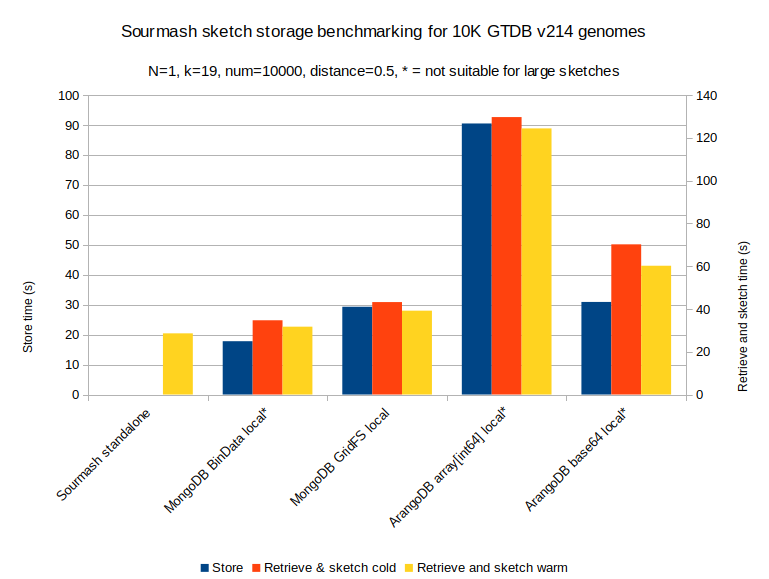
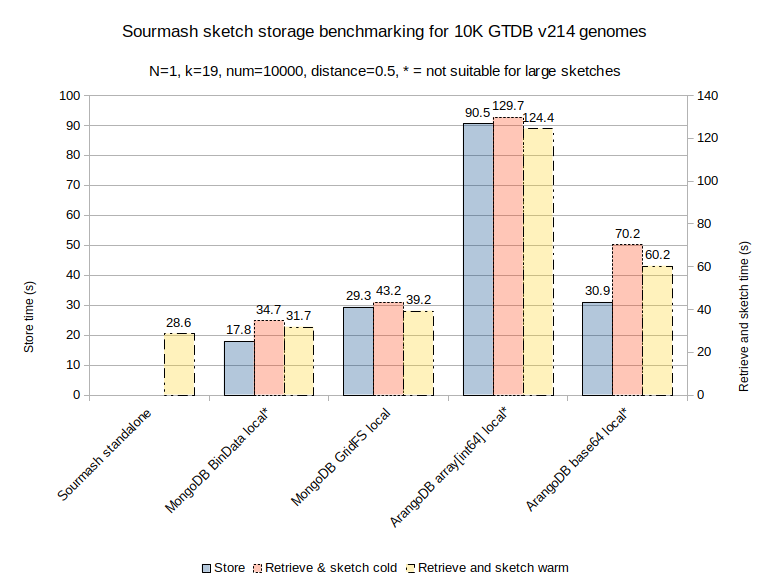
Improve graph for colorblindness
Also typo

diff --git a/design/experiments/benchmark_sourmash_signature_storage.md b/design/experiments/benchmark_sourmash_signature_storage.md
@@ -12,7 +12,7 @@ Run using Sean J.'s download of GTDB v214. Uses files from a previous analysis
 
 ![Sourmash storage benchmarking](./sourmash_storage_benchmarking.png)
 
-* local: all software run on a laptop
+* local: all software runs on a laptop
 * cold: database just started
 * warm: data has been fetched from the database at least once
 * BinData: files stored as binary blobs in MongoDB documents (16MB max size)
